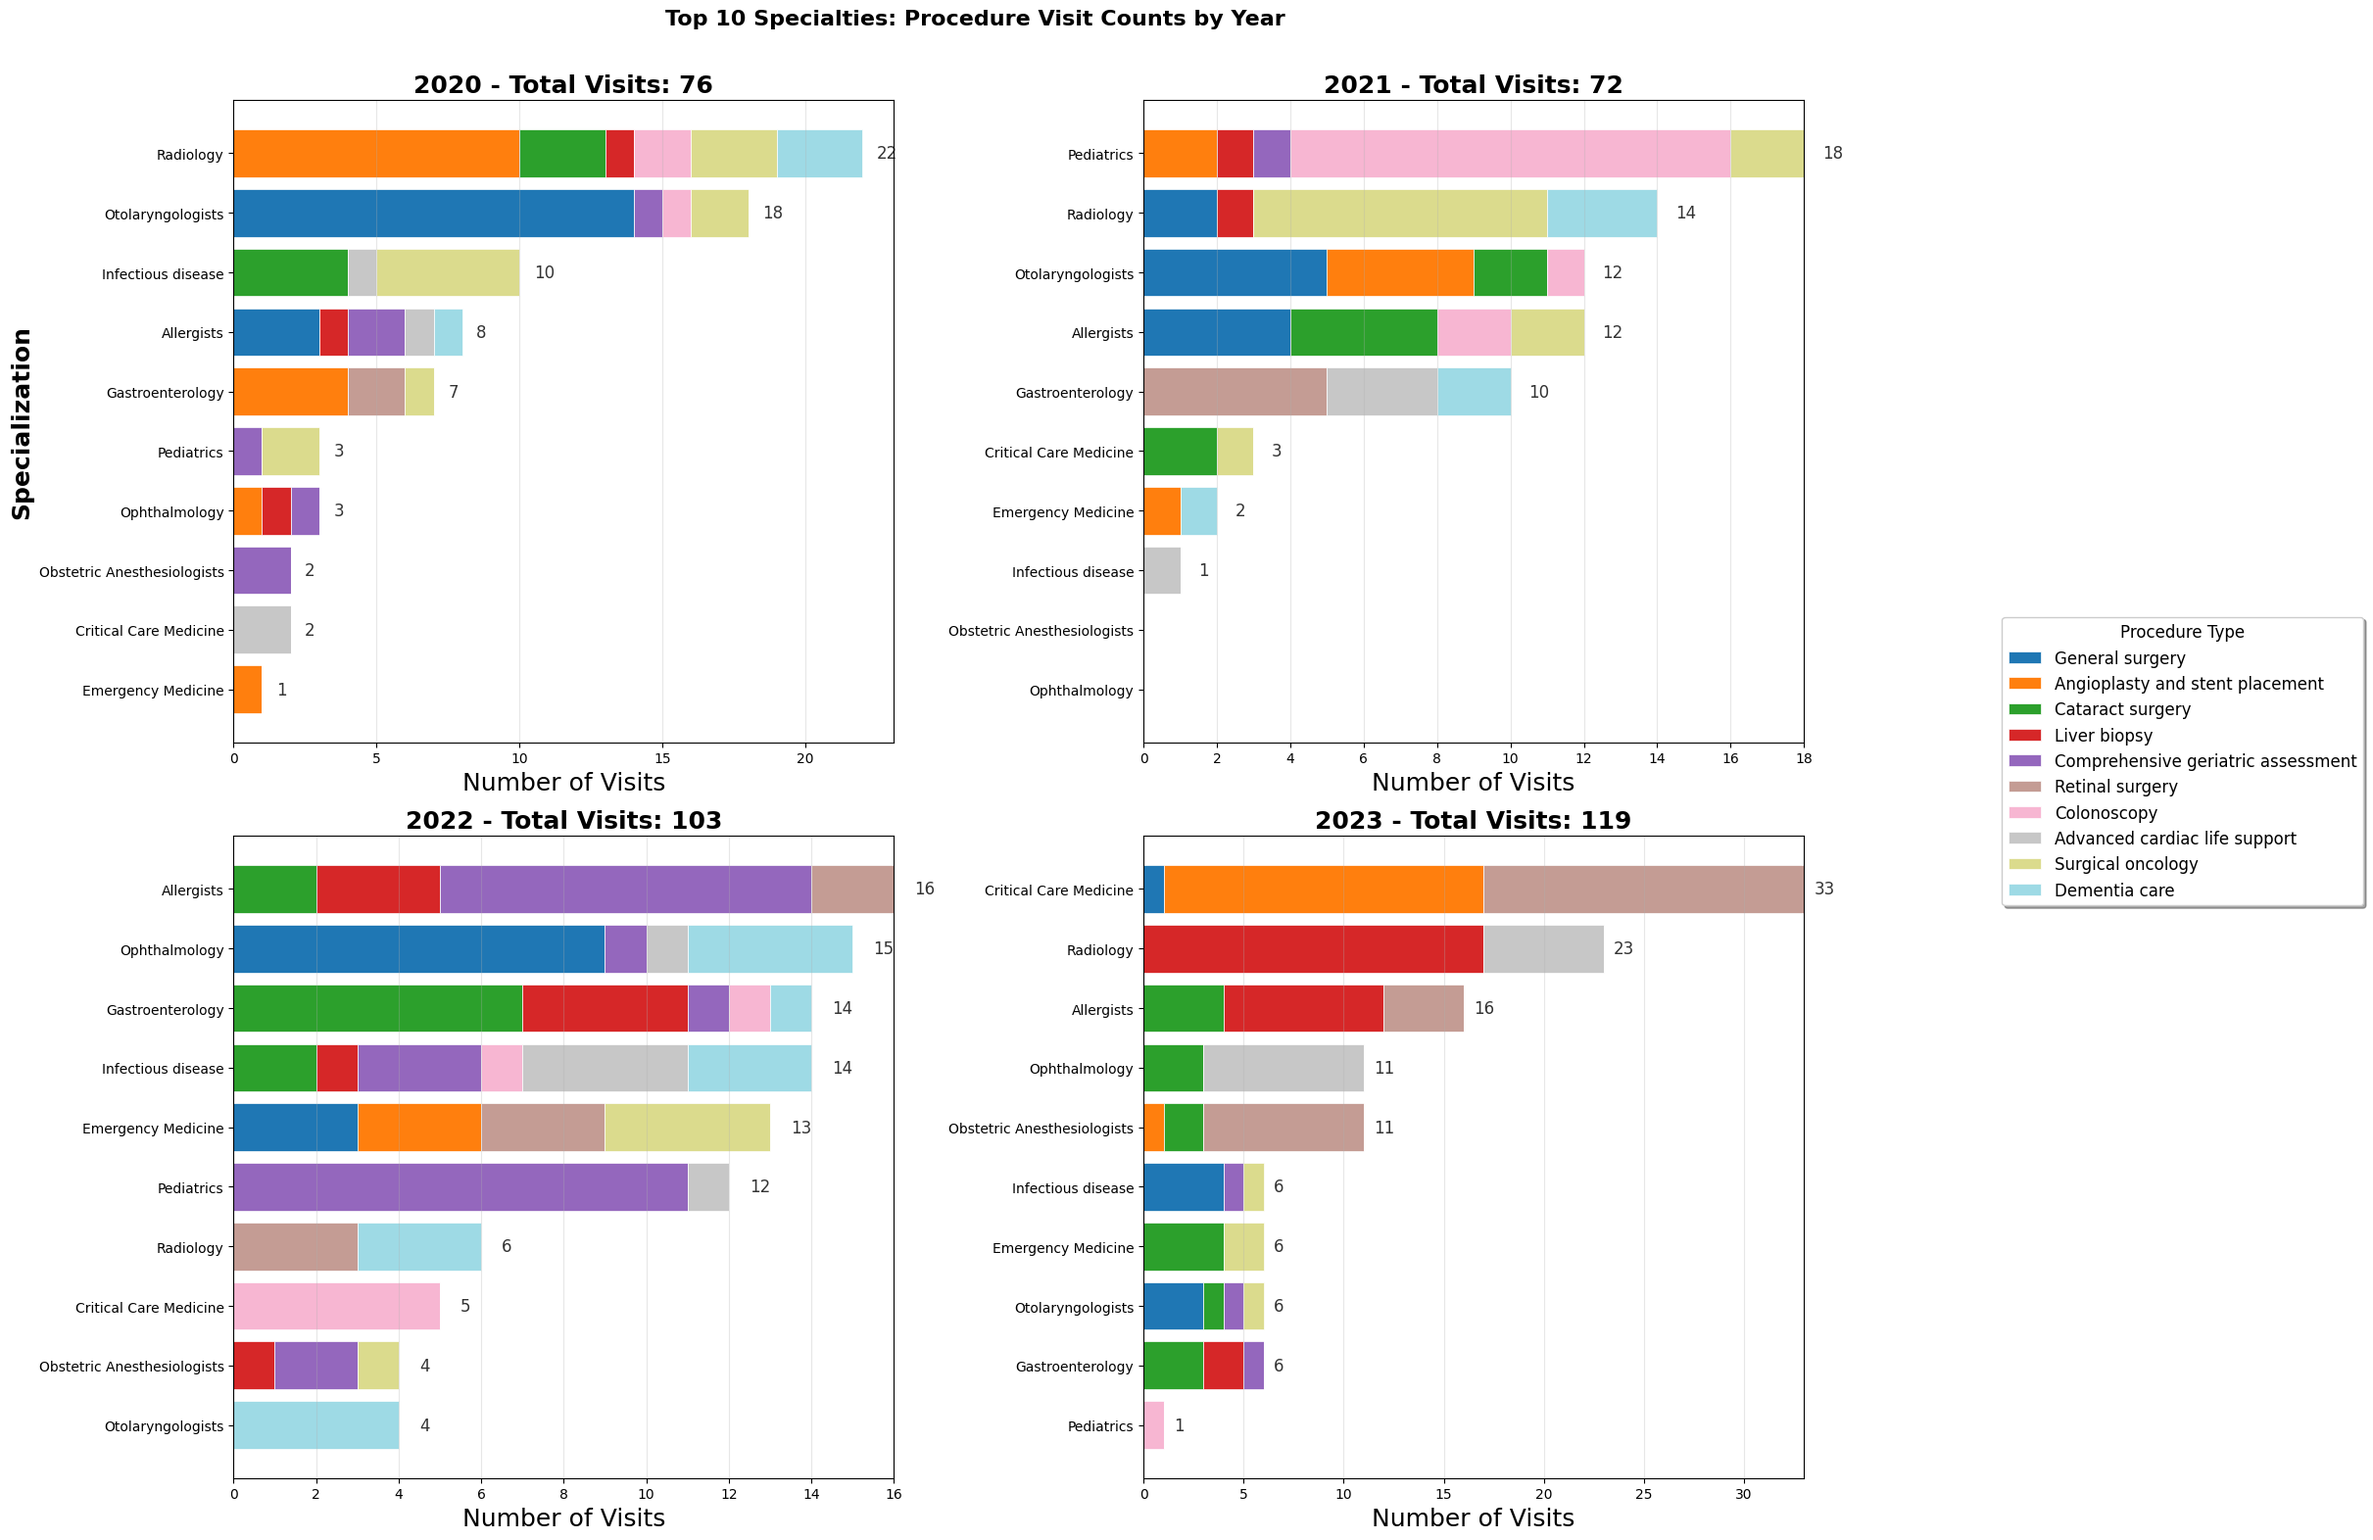
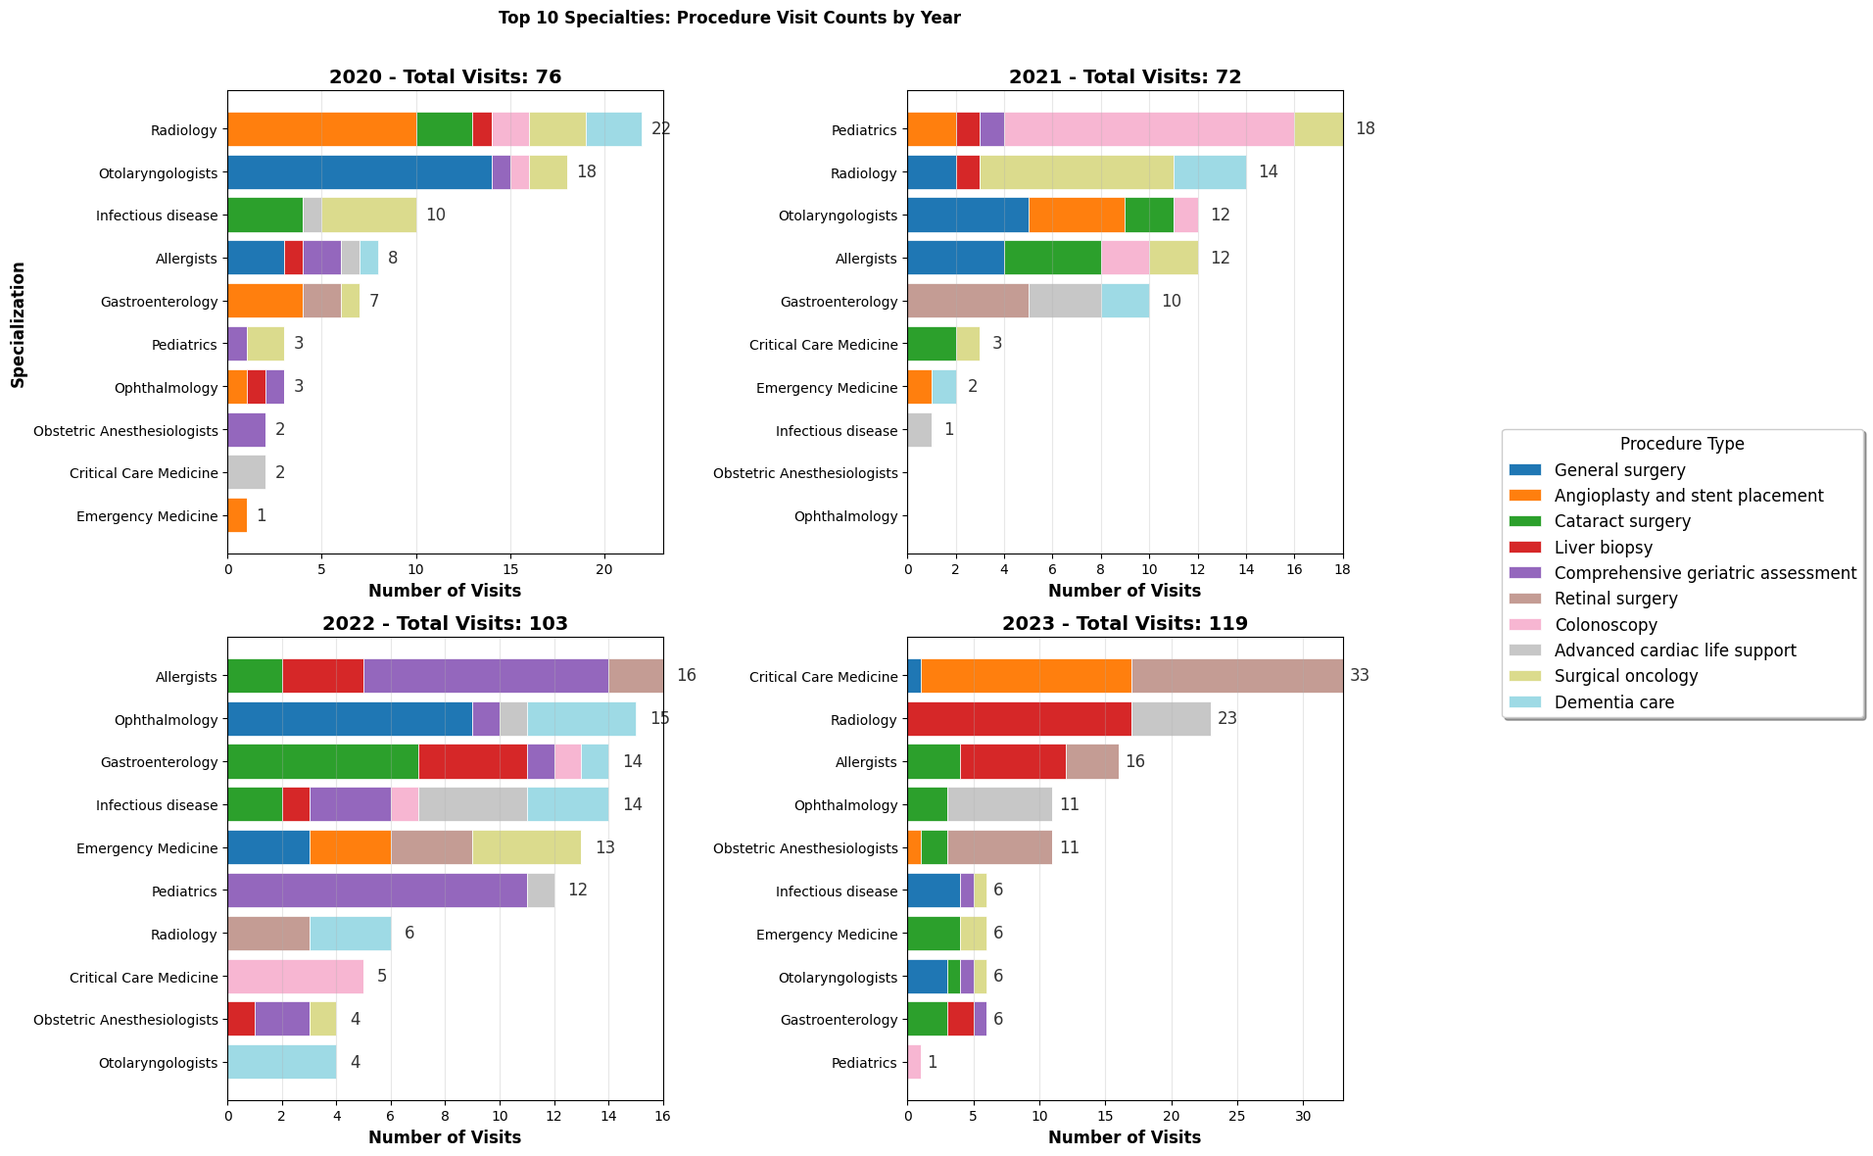
update on chart

diff --git a/dataanalysis_health.py b/dataanalysis_health.py
@@ -215,9 +215,9 @@ procedure_counts_top10 = procedures_visits[procedures_visits['Specialization'].i
 top_procedures = procedures_visits.groupby('ProcedureName')['visit_procedure_count'].sum().nlargest(10).index
 procedure_counts_top10 = procedure_counts_top10[procedure_counts_top10['ProcedureName'].isin(top_procedures)]
 
-fig, axes = plt.subplots(2, 2, figsize=(20, 16))
+fig, axes = plt.subplots(2, 2, figsize=(15, 12))
 fig.subplots_adjust(hspace=0.4, wspace=0.3, top=0.92, bottom=0.08, left=0.12, right=0.85)
-fig.suptitle('Top 10 Specialties: Procedure Visit Counts by Year', fontsize=16, fontweight='bold')
+fig.suptitle('Top 10 Specialties: Procedure Visit Counts by Year', fontsize=12, fontweight='bold')
 axes_flat = axes.flatten() # Flatten axes for easier iteration
 
 # Create color map for procedures
@@ -263,10 +263,10 @@ for idx, year in enumerate(year_procedure):
             bottom += values
     
     # Customize the subplot
-    axes_flat[idx].set_title(f'{year} - Total Visits: {year_procedure["visit_procedure_count"].sum():,}', fontsize=18, fontweight='bold')
-    axes_flat[idx].set_xlabel('Number of Visits', fontsize=18)
+    axes_flat[idx].set_title(f'{year} - Total Visits: {year_procedure["visit_procedure_count"].sum():,}', fontsize=14, fontweight='bold')
+    axes_flat[idx].set_xlabel('Number of Visits', fontsize=12, fontweight='semibold')
     if idx == 0:
-        axes_flat[idx].set_ylabel('Specialization', fontsize=18, fontweight='semibold', wrap=True)
+        axes_flat[idx].set_ylabel('Specialization', fontsize=12, fontweight='semibold', wrap=True)
 
     # Add grid
     axes_flat[idx].grid(True, alpha=0.3, axis='x')
